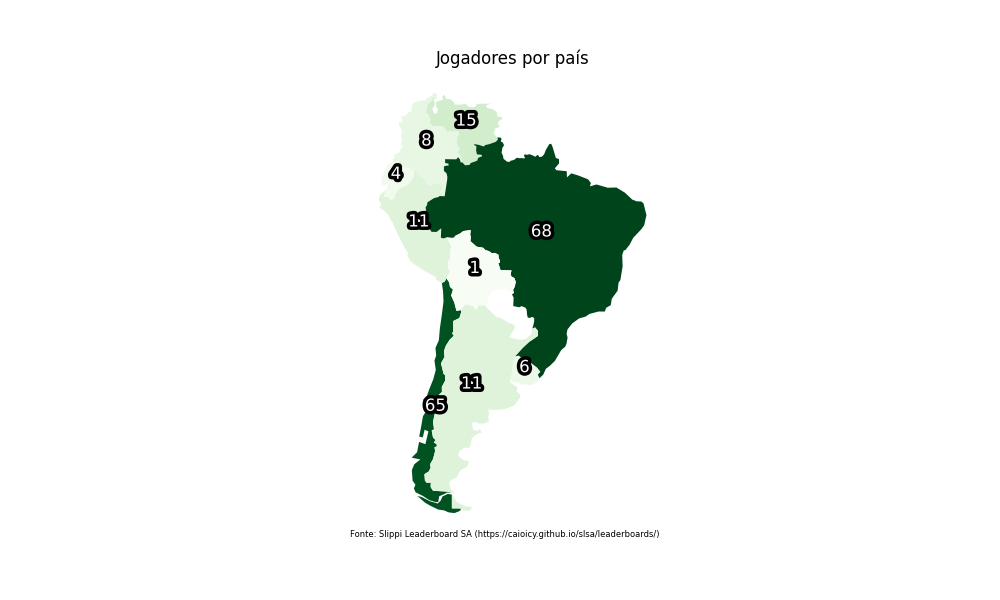
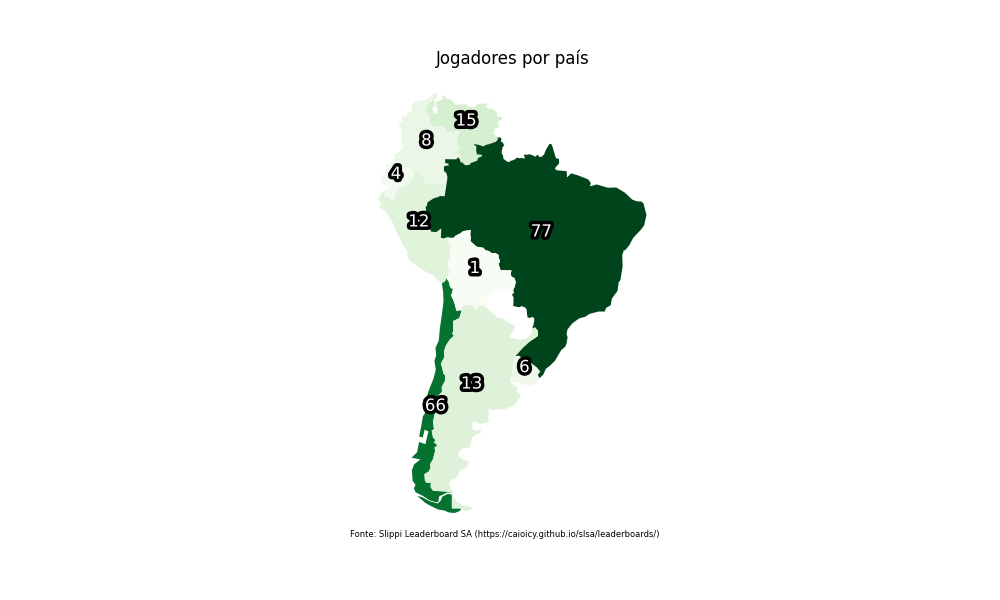
11_06_2024

diff --git a/data_scraping.py b/data_scraping.py
@@ -79,7 +79,7 @@ html_string_treated = html_string_sem_colchetes.replace(']', '!')
 
 country_codes = re.findall(r'countryCode\\\\":(.*?),', html_string_treated)
 slippi_connect_codes = re.findall(r'slippiConnectCodes\\\\":!(.*?),', html_string_treated)
-# del country_codes[51] # foi identificado 1 jogador que possui país associado, mas não possui código. aqui, eu apago
+del slippi_connect_codes[-1] # aqui, eu apago o código do último player, já que ele não possui país
 country_codes = [code.replace('\\', '') for code in country_codes]
 country_codes = [code.replace('"', '') for code in country_codes]
 country_codes = [code.replace('}', '') for code in country_codes]
@@ -103,7 +103,6 @@ csvcodes = pd.DataFrame({'codes': slippi_connect_codes})
 csvpaises = pd.DataFrame({'paises': country_codes})
 csvcodes.to_csv('codigos_brutos.csv', index=False)
 csvpaises.to_csv('paises_brutos.csv', index=False)
-
 
 df = pd.DataFrame({'CountryCode': country_codes, 'SlippiConnectCodes': slippi_connect_codes})
 
